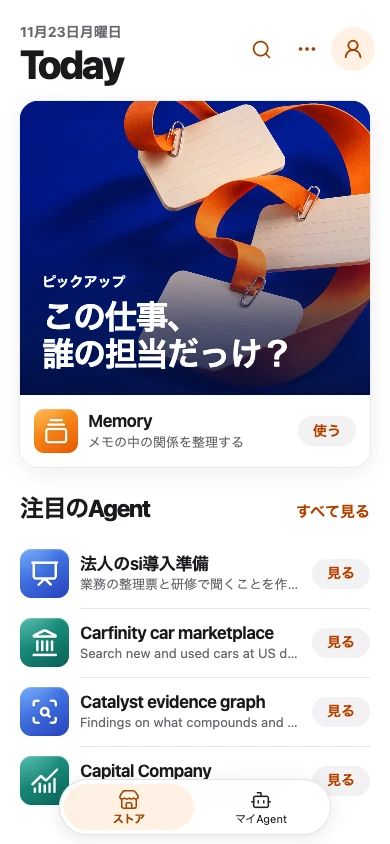
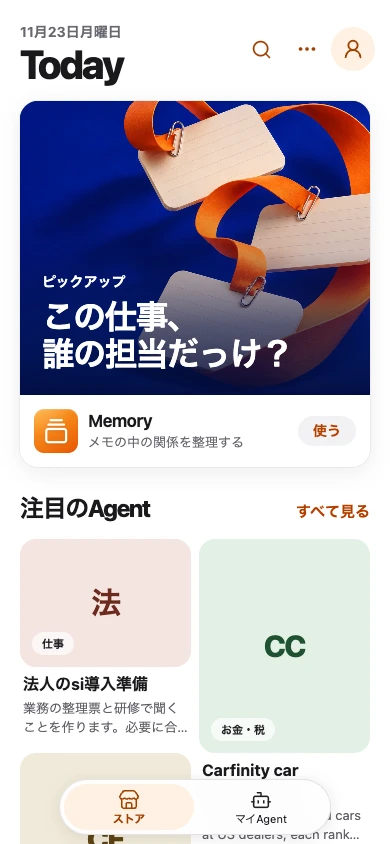
Restore the two-column pin board for featured Noah agents

Changed region(s): [[0.0308, 0.6161, 0.9538, 1.0]]

diff --git a/components/noah-store.module.css b/components/noah-store.module.css
@@ -63,18 +63,18 @@
 }
 .featureArt[data-memory] h2 { max-inline-size: 9em; }
 .phrase { display: block; }
-.featureFoot, .row { display: flex; align-items: center; }
+.featureFoot { display: flex; align-items: center; }
 .featureFoot { min-height: 78px; gap: 12px; padding: 10px 20px; box-sizing: border-box; }
-.featureIcon, .appIcon { width: 51px; height: 51px; flex: none; }
-.featureByline, .rowText { flex: 1; min-width: 0; }
-.featureByline strong, .featureByline small, .rowText strong, .rowText small {
+.featureIcon { width: 51px; height: 51px; flex: none; }
+.featureByline { flex: 1; min-width: 0; }
+.featureByline strong, .featureByline small {
   display: block;
   overflow: hidden;
   text-overflow: ellipsis;
   white-space: nowrap;
 }
-.featureByline strong, .rowText strong { font-size: 17px; font-weight: 650; line-height: 1.33; letter-spacing: -.025em; }
-.featureByline small, .rowText small { color: #66666e; font-size: 13px; line-height: 1.5; }
+.featureByline strong { font-size: 17px; font-weight: 650; line-height: 1.33; letter-spacing: -.025em; }
+.featureByline small { color: #66666e; font-size: 13px; line-height: 1.5; }
 .pill {
   display: inline-grid;
   min-width: 66px;
@@ -90,9 +90,9 @@
   font-weight: 750;
   line-height: 1.2;
 }
-.coverLink:hover .pill, .row:hover .pill { background: #ffe3d0; }
+.coverLink:hover .pill { background: #ffe3d0; }
 .coverLink:focus-visible { outline: 3px solid var(--store-action); outline-offset: -4px; }
-.row:focus-visible, .listHeading a:focus-visible, .services a:focus-visible { outline: 2px solid #b43c00; outline-offset: 3px; }
+.pinLink:focus-visible, .listHeading a:focus-visible, .services a:focus-visible { outline: 2px solid #b43c00; outline-offset: 3px; }
 .collection { min-width: 0; }
 .listHeading {
   display: flex;
@@ -104,16 +104,36 @@
 }
 .listHeading h2 { margin: 0; font-size: clamp(24px, 2.2vw, 33px); font-weight: 750; line-height: 1.22; letter-spacing: -.055em; }
 .listHeading a { display: inline-flex; align-items: center; min-height: 40px; color: var(--store-action); font-size: 15px; font-weight: 550; text-decoration: none; }
-.collection ul { margin: 0; padding: 0; list-style: none; }
-.row { position: relative; gap: 12px; padding: 12px 0; color: inherit; text-decoration: none; }
-.collection li + li .row::before { content: ''; position: absolute; inset: 0 0 auto; margin-inline-start: 63px; height: 1px; background: var(--store-line); }
+.pinGrid {
+  display: grid;
+  grid-template-columns: repeat(2, minmax(0, 1fr));
+  align-items: start;
+  column-gap: 12px;
+  margin: 0;
+  padding: 0;
+  list-style: none;
+}
+.pinGrid[data-measured] { grid-auto-rows: 4px; }
+.pinLink { display: block; padding-bottom: 16px; color: inherit; text-decoration: none; }
+.pinGrid [data-shape='1'] .pinLink > span { aspect-ratio: 1; }
+.pinGrid [data-shape='2'] .pinLink > span { aspect-ratio: 4 / 5; }
+.pinLink:hover > span { filter: brightness(.96); }
+.pinTitle, .pinSummary {
+  display: -webkit-box;
+  -webkit-box-orient: vertical;
+  -webkit-line-clamp: 2;
+  overflow: hidden;
+  overflow-wrap: anywhere;
+  margin-inline: 3px;
+}
+.pinTitle { margin-top: 7px; font-size: 16px; font-weight: 700; line-height: 1.35; }
+.pinSummary { margin-top: 3px; font-size: 13px; line-height: 1.45; color: #606067; }
 .services { display: flex; flex-wrap: wrap; gap: 0 24px; margin: 12px 0 28px; padding-block: 6px; border-block: 1px solid #e5e5e9; }
 .services nav { display: flex; flex-wrap: wrap; gap: 0 20px; }
 .services a { display: inline-flex; align-items: center; gap: 6px; min-height: 44px; color: #98420e; font-size: 14px; font-weight: 560; }
 @media (min-width: 850px) {
   .showcase[data-related] { grid-template-columns: minmax(0, 1.55fr) minmax(265px, 1fr); }
   .collection { padding-top: 8px; border-top: 1px solid var(--store-line); }
-  .row { min-height: 75px; box-sizing: border-box; }
 }
 @media (max-width: 849px) {
   .top { margin-bottom: 16px; }
@@ -128,9 +148,7 @@
   .featureArt h2 { font-size: clamp(32px, 8.4vw, 43px); }
   .featureFoot { min-height: 72px; gap: 10px; padding: 12px 14px; }
   .featureIcon { width: 44px; height: 44px; }
-  .row { gap: 11px; padding: 10px 0; }
-  .appIcon { width: 49px; height: 49px; }
-  .collection li + li .row::before { margin-inline-start: 60px; }
+  .pinGrid { column-gap: 8px; }
   .pill { min-width: 58px; }
   .services { margin-bottom: 18px; }
 }

diff --git a/components/noah-store-entry.tsx b/components/noah-store-entry.tsx
@@ -1,15 +1,17 @@
 'use client';
 /* oxlint-disable next/no-html-link-for-pages -- The dedicated cloud Worker serves a separate document with a fresh line check. */
-import { useEffect, useState } from 'react';
+import { useEffect, useRef, useState } from 'react';
 import Link from 'next/link';
 import { Cloud, PackagePlus, ShoppingBag, Signal } from 'lucide-react';
 import type { NoahAgentCard } from '@/lib/noah-agent-cards';
 import type { NoahFirstJob } from '@/lib/noah-first-jobs';
+import { NOAH_PIN_TOPIC_LABELS, noahPinInitials } from '@/lib/noah-pins';
 import { noahCardHref } from '@/lib/noah-project-view';
 import { noahReadyDetailHref } from '@/lib/noah-ready-view';
 import NoahAppIcon from './noah-app-icon';
 import { useNoahLocale } from './noah-locale';
 import styles from './noah-store.module.css';
+import pins from './noah-pins.module.css';
 
 const hrefFor = (card: NoahAgentCard) => noahCardHref(card) ?? noahReadyDetailHref(card.id);
 
@@ -34,6 +36,40 @@ function TodayHeading() {
     }).format(today)}</time>}</div>
     <h1>{t('Today')}</h1>
   </header>;
+}
+
+function FeaturedPins({ items }: { items: NoahAgentCard[] }) {
+  const { t } = useNoahLocale();
+  const list = useRef<HTMLUListElement>(null);
+  useEffect(() => {
+    const element = list.current;
+    if (!element || typeof ResizeObserver === 'undefined') return;
+    // Span four-pixel grid tracks so CSS places each new link in the shortest column.
+    // Measure the links, which keep their intrinsic height as their list items span tracks.
+    const observer = new ResizeObserver(() => {
+      for (const card of element.children) {
+        const link = card.firstElementChild;
+        if (link && card instanceof HTMLElement)
+          card.style.gridRowEnd = `span ${Math.max(1, Math.ceil(link.getBoundingClientRect().height / 4))}`;
+      }
+      element.dataset.measured = 'true';
+    });
+    for (const link of element.querySelectorAll('a')) observer.observe(link);
+    return () => observer.disconnect();
+  }, [items]);
+
+  return <ul className={styles.pinGrid} ref={list}>
+    {items.map(item => <li key={item.id} className={pins.tone} data-topic={item.topic} data-shape={item.shape}>
+      <Link href={hrefFor(item)} className={styles.pinLink}>
+        <span className={pins.panel} aria-hidden="true">
+          <span className={pins.initials}>{noahPinInitials(item.name)}</span>
+          <span className={pins.topicLabel}>{t(NOAH_PIN_TOPIC_LABELS[item.topic])}</span>
+        </span>
+        <strong className={styles.pinTitle}>{item.name}</strong>
+        {(item.summary || item.provider) && <small className={styles.pinSummary}>{item.summary || item.provider}</small>}
+      </Link>
+    </li>)}
+  </ul>;
 }
 
 export default function NoahStoreEntry({ jobs, items }: { jobs?: (NoahFirstJob & { href: string })[]; items: NoahAgentCard[] }) {
@@ -77,13 +113,7 @@ export default function NoahStoreEntry({ jobs, items }: { jobs?: (NoahFirstJob &
           <h2 id="noah-featured-agents-title">{t('注目のAgent')}</h2>
           <Link href="/noah/explore">{t('すべて見る')}</Link>
         </header>
-        <ul>{related.map(item => <li key={item.id}>
-          <Link href={hrefFor(item)} className={styles.row}>
-            <NoahAppIcon name={item.name} topic={item.topic} className={styles.appIcon} />
-            <span className={styles.rowText}><strong>{item.name}</strong><small>{item.summary || item.provider}</small></span>
-            <span className={styles.pill}>{t('見る')}</span>
-          </Link>
-        </li>)}</ul>
+        <FeaturedPins items={related} />
       </section>}
     </div>}
   </div>;

diff --git a/codex/tasks/00-index.md b/codex/tasks/00-index.md
@@ -114,7 +114,7 @@
 | # | ファイル | 一言 | 状態 |
 | --- | --- | --- | --- |
 | 99 | [99-noah-result-data.md](99-noah-result-data.md) | 成果の本人用検索・出力と同意付き運営提供・撤回 | ✅ PR #334 |
-| 100 | [100-noah-standalone-ui.md](100-noah-standalone-ui.md) | Noahの専用UI・登録Agent・利用人数/王冠/コメント・実行中タブ・接続案内・開発者向けメール相談 | ✅ 現mainにUI・登録・保存・タップ反応を統合（[PR #3](https://github.com/iceiceice999/rock/pull/3)、[PR #6](https://github.com/iceiceice999/rock/pull/6)）。公開203のPixelでAgentboard新規登録→認証付き実行→成果再読込、音・振動を確認（[PR #10](https://github.com/iceiceice999/rock/pull/10)）。過去の公開版別記録はtask100/CHANGELOG。任意サービスのブラウザ登録・100人同時外部実行・実eSIM連携は未受入。[PR #24](https://github.com/iceiceice999/rock/pull/24)で目的別の初回導線を追加。初見利用者の評価は[受入手順](../../docs/noah/first-use-architecture.md)で確認する。✅ オレンジのストアとマイAgent、専用Linuxと利用明細（[PR #37](https://github.com/iceiceice999/rock/pull/37)）。 ✅ Today特集と商品詳細（[PR #41](https://github.com/iceiceice999/rock/pull/41)）。 |
+| 100 | [100-noah-standalone-ui.md](100-noah-standalone-ui.md) | Noahの専用UI・登録Agent・利用人数/王冠/コメント・実行中タブ・接続案内・開発者向けメール相談 | ✅ 現mainにUI・登録・保存・タップ反応を統合（[PR #3](https://github.com/iceiceice999/rock/pull/3)、[PR #6](https://github.com/iceiceice999/rock/pull/6)）。公開203のPixelでAgentboard新規登録→認証付き実行→成果再読込、音・振動を確認（[PR #10](https://github.com/iceiceice999/rock/pull/10)）。過去の公開版別記録はtask100/CHANGELOG。任意サービスのブラウザ登録・100人同時外部実行・実eSIM連携は未受入。[PR #24](https://github.com/iceiceice999/rock/pull/24)で目的別の初回導線を追加。初見利用者の評価は[受入手順](../../docs/noah/first-use-architecture.md)で確認する。✅ オレンジのストアとマイAgent、専用Linuxと利用明細（[PR #37](https://github.com/iceiceice999/rock/pull/37)）。 ✅ Today特集、注目のピン表示と商品詳細（[PR #41](https://github.com/iceiceice999/rock/pull/41)）。 |
 | 101 | [101-compute-placement.md](101-compute-placement.md) | 黒殿の 1 ノードを Linux 版 runner の host にし、従量の引き金を測る | 項目 1・4 [#370](https://github.com/k999ln/rock/pull/370)（main への統合は [PR #414](https://github.com/k999ln/rock/pull/414)） |
 | 102 | [102-sim-proof-endorse.md](102-sim-proof-endorse.md) | SIM の証明（N1）: Endorse のトークンを確かめ、SIM を account に束ねる | ✅ [PR #365](https://github.com/k999ln/rock/pull/365)（main への統合は [PR #411](https://github.com/k999ln/rock/pull/411)） |
 | 103 | [103-esim-churn-measure.md](103-esim-churn-measure.md) | 続けて使う割合を測る: eSIM を入れた人と入れていない人を、同じ機能で比べる（集計の関数は実装済み） | ✅ [PR #415](https://github.com/k999ln/rock/pull/415)（使い続けた割合。月額の版 #364 は入れない） |

diff --git a/docs/structure/04-eve-noa-amc-sky.md b/docs/structure/04-eve-noa-amc-sky.md
@@ -1,6 +1,6 @@
 # 04 Eve → Noa → AMC → Jev、Sky、そしてサービス挙動の書き方（2026-11-02）
 
-2026-11-23 Noahのストアと実行先。公開入口は [avoado.si/noah](https://avoado.si/noah)。オレンジを基調とし、Todayの特集とアイコン付きの一覧を最初に見せる。特集・カテゴリ・検索からAgentを選び、詳細で利用・購入へ進める。「マイAgent」で自分のAgent、実行中の仕事、保存した成果を切り替える。作者は掲載管理から申請する。専用eSIMを使う標準経路では、本人が自社クラウドでの利用量と料金を仕事ごとに確認する。提供元のクラウドへ依頼する場合は、送信先と料金条件を実行前に提示する。画面操作を伴う仕事は対応するLinux実行器の専用ゲストに閉じ、利用者のデスクトップ・クリップボードを操作対象にしない。[eSIMと利用権](03-esim.md)・[専用画面の操作基盤](https://github.com/vercel-labs/agent-desktop)
+2026-11-23 Noahのストアと実行先。公開入口は [avoado.si/noah](https://avoado.si/noah)。オレンジを基調とし、Todayの特集と、注目のAgentを2列に並べたピン表示を最初に見せる。特集・カテゴリ・検索からAgentを選び、詳細で利用・購入へ進める。「マイAgent」で自分のAgent、実行中の仕事、保存した成果を切り替える。作者は掲載管理から申請する。専用eSIMを使う標準経路では、本人が自社クラウドでの利用量と料金を仕事ごとに確認する。提供元のクラウドへ依頼する場合は、送信先と料金条件を実行前に提示する。画面操作を伴う仕事は対応するLinux実行器の専用ゲストに閉じ、利用者のデスクトップ・クリップボードを操作対象にしない。[eSIMと利用権](03-esim.md)・[専用画面の操作基盤](https://github.com/vercel-labs/agent-desktop)
 
 2026-11-23 Python無料実行の拡張: Hermesの計画・情報整理、bossの面接準備、Timeの公式Python処理をprofileごとの別Worker・依頼別Durable Objectへ組み込む。isolateに異なる公式実装を同居させず、モデルと利用枠は共通実行器で管理する。配布物の固定hashと機能制限を保ち、実行・保存を本番受入してから公開する。[契約](../services/noah-cloud-agents.md#無料枠の公式python実行)
 

diff --git a/README.md b/README.md
@@ -92,7 +92,7 @@ npm run amc:cycle -- demo
 
 <a href="https://avoado.si/noah"><img src="docs/assets/readme/noah-store-today.webp" alt="NoahのTodayでMemoryの特集と注目のAgentを選ぶスマホ画面" width="272"></a>
 
-[Noahのストア](https://avoado.si/noah)を開くと、Todayで特集された仕事と、アイコン付きのAgent一覧から選べます。各Agentの詳細から接続できます。購入・作者の掲載管理はストアから、自分のAgent・実行中の仕事・保存した成果は[マイAgent](https://avoado.si/noah/my)から開けます。専用eSIMの対応条件を確認し、利用権のある注文で自社クラウドの仕事・成果・従量料金を開けます。外部Agentに依頼するときは、提供元と送信先を確認します。[eSIMの導入](https://avoado.si/connect)
+[Noahのストア](https://avoado.si/noah)を開くと、Todayで特集された仕事と、「注目のAgent」のピンから選べます。ピンは分野ごとの色と頭文字が目印で、高さの違うカードが2列に並びます。各Agentの詳細から接続できます。購入・作者の掲載管理はストアから、自分のAgent・実行中の仕事・保存した成果は[マイAgent](https://avoado.si/noah/my)から開けます。専用eSIMの対応条件を確認し、利用権のある注文で自社クラウドの仕事・成果・従量料金を開けます。外部Agentに依頼するときは、提供元と送信先を確認します。[eSIMの導入](https://avoado.si/connect)
 
 **[Eve・Noah 図解設計書](docs/noah/illustrated-specifications.md)**　利用者の操作、画面とバックエンド、eSIM、作者収益・作業料・定期便までを8枚の図で読めます。[共有用PDF](docs/assets/noah-illustrated-specifications.pdf)
 

diff --git a/CHANGELOG.md b/CHANGELOG.md
@@ -1,5 +1,5 @@
 ## 2026-11-23
-- NoahでTodayの特集を先頭に置き、Agentのアイコン、商品詳細とストアのナビゲーションを更新。 [PR #41](https://github.com/iceiceice999/rock/pull/41)
+- NoahでTodayの特集を先頭に置き、「注目のAgent」に以前の2列のピン表示を採用。Agentの商品詳細とストアのナビゲーションを更新。 [PR #41](https://github.com/iceiceice999/rock/pull/41)
 - Noahのストア、専用eSIMの仕事別利用明細、提供元の選択、専用Linux仮想画面でのagent-desktop実行を追加。[実行仕様](docs/services/noah-managed-desktop.md) · [PR #37](https://github.com/iceiceice999/rock/pull/37)
 - avoado.si の React 関連 3 パッケージを 19.2.9 に統一し、CVE-2026-126187 と shadcn CLI の依存脆弱性を修正（[PR #36](https://github.com/iceiceice999/rock/pull/36)）。
 - Noah の「Noahが読んだ」を、リポジトリのファイル `data/noah-scout/leads.json` からクラウドの収集機が載せる形にした（task 125、Opus / Noelle）。読んだ人（Codex の Luna Max・Claude）はファイルに足す PR を出すだけで、運営の Mac に掲載の鍵を置かなくてよい。ファイルに無い出所は送らないので、前の掲載を空で上書きしない。最初の 1 件として、本人が「これいれて」と言った Switch（sandbox-quantum/switch）を、README・LICENSE・公式の手順書まで読んで日本語で書いた。 [正本 PR #34](https://github.com/iceiceice999/rock/pull/34)・[旧PR #426](https://github.com/k999ln/rock/pull/426)

diff --git a/docs/structure/07-decisions-from-minutes.md b/docs/structure/07-decisions-from-minutes.md
@@ -1,5 +1,7 @@
 # 07 議事録から抽出した決定事項（日付順）
 
+- 2026-11-23 本人指示。「注目のAgent」は以前のピン表示に戻す。選ばれた最大4件を分野ごとの色と頭文字で表し、高さの異なるカードを2列に詰める。
+
 - 2026-11-23 Noahのストアを開くと、日付とToday、Agentの用途が伝わる大きな特集、個別アイコン付きの一覧の順に選べる。購入・作者の掲載・eSIMの入口は特集の下に置く。
 
 - 2026-11-23 本人の追加指示。Noahのブランドカラーはオレンジ。公開フロントは App Store のように個々のAgentを特集・一覧・詳細で選べる形にする。下部の「Agent」「実行中」「保存」は「マイAgent」に集約し、ストアと自分の作業を行き来できるようにする。
